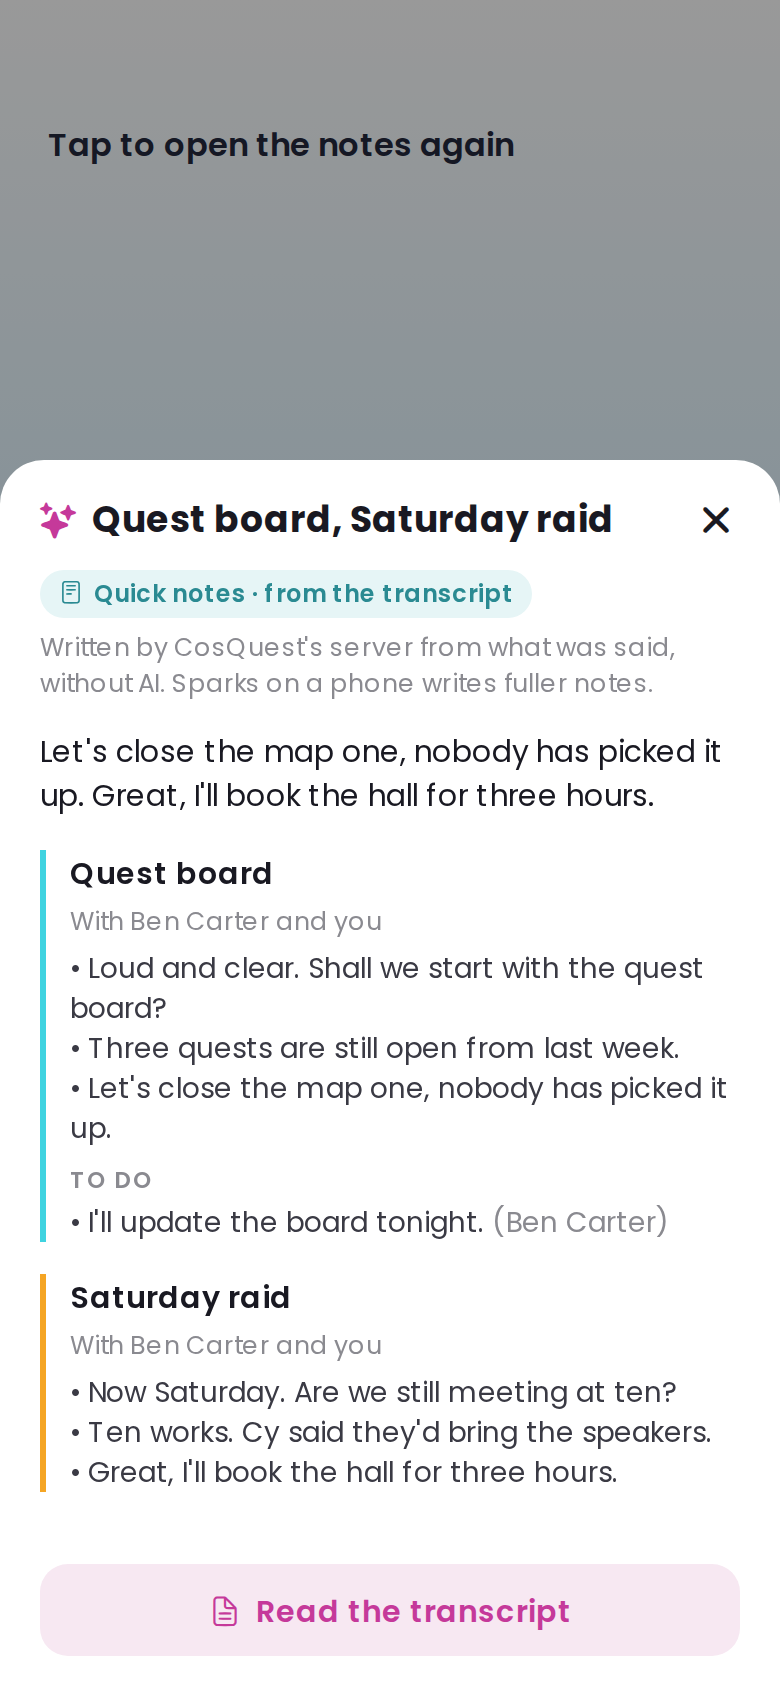
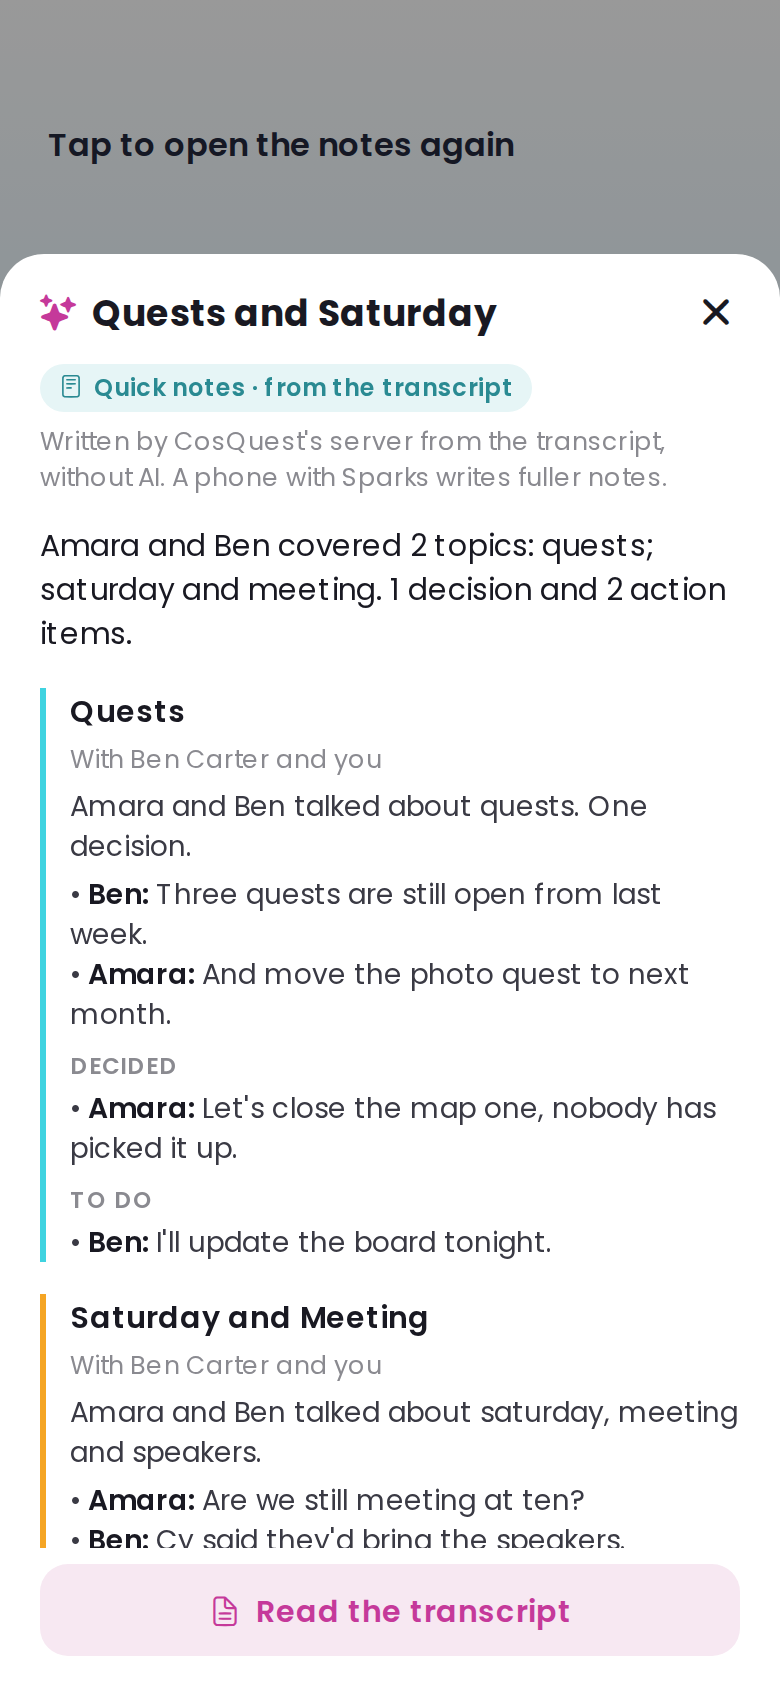
Quick notes: real server output in the preview, speaker names as labels
The dev preview's quick notes are now the server module's actual output
for the same lines. In quick notes, a quoted point, decision or to-do
shows its speaker's first name as a bold label; a to-do said by its owner
is labelled with the owner. Shorter, accurate explanation line.
Screenshots updated.

diff --git a/components/calls/CallNotesSheet.tsx b/components/calls/CallNotesSheet.tsx
@@ -36,6 +36,14 @@ export const callNotesEnabled = ["module", "qlm"].includes(String(process.env.EX
 
 const PENDING_POLL_MS = 15_000;
 
+// Quick notes quote people: "Ben: Three quests are still open." The name is
+// shown as a label, the sentence as said.
+const SAID = /^([^:\n]{1,40}):\s+([\s\S]+)$/;
+function splitSaid(text: string, quick: boolean): { who: string | null; text: string } {
+  const match = quick ? SAID.exec(text) : null;
+  return match ? { who: match[1].trim(), text: match[2] } : { who: null, text };
+}
+
 type Loaded =
   | { state: "loading" }
   | { state: "ready"; outline: CallOutline; speakers: TranscriptSpeakers }
@@ -196,7 +204,7 @@ export default function CallNotesSheet({
                     <Text style={styles.quickBadgeText}>Quick notes · from the transcript</Text>
                   </View>
                   <Text style={styles.quickText}>
-                    {"Written by CosQuest's server from what was said, without AI. Sparks on a phone writes fuller notes."}
+                    {"Written by CosQuest's server from the transcript, without AI. A phone with Sparks writes fuller notes."}
                   </Text>
                 </View>
               ) : null}
@@ -209,24 +217,43 @@ export default function CallNotesSheet({
                     <Text style={styles.topicTitle}>{topic.title}</Text>
                     {people ? <Text style={styles.people}>With {people}</Text> : null}
                     {topic.summary ? <Text style={styles.text}>{topic.summary}</Text> : null}
-                    {topic.points.map((point, i) => (
-                      <Text key={`p${i}`} style={styles.bullet}>
-                        • {point}
-                      </Text>
-                    ))}
+                    {topic.points.map((point, i) => {
+                      const said = splitSaid(point, quick);
+                      return (
+                        <Text key={`p${i}`} style={styles.bullet}>
+                          • {said.who ? <Text style={styles.said}>{said.who}: </Text> : null}
+                          {said.text}
+                        </Text>
+                      );
+                    })}
                     {topic.decisions.length ? <Text style={styles.label}>Decided</Text> : null}
-                    {topic.decisions.map((decision, i) => (
-                      <Text key={`d${i}`} style={styles.bullet}>
-                        • {decision}
-                      </Text>
-                    ))}
+                    {topic.decisions.map((decision, i) => {
+                      const said = splitSaid(decision, quick);
+                      return (
+                        <Text key={`d${i}`} style={styles.bullet}>
+                          • {said.who ? <Text style={styles.said}>{said.who}: </Text> : null}
+                          {said.text}
+                        </Text>
+                      );
+                    })}
                     {topic.actionItems.length ? <Text style={styles.label}>To do</Text> : null}
-                    {topic.actionItems.map((item, i) => (
-                      <Text key={`a${i}`} style={styles.bullet}>
-                        • {item.text}
-                        {item.ownerUserId ? <Text style={styles.owner}> ({nameFor(item.ownerUserId)})</Text> : null}
-                      </Text>
-                    ))}
+                    {topic.actionItems.map((item, i) => {
+                      const said = splitSaid(item.text, quick);
+                      const owner = item.ownerUserId ? nameFor(item.ownerUserId) : null;
+                      // Quick notes: a to-do with no name was said by its owner ("I'll update the board").
+                      // First name, like the quotes around it (the viewer too: the quotes name them).
+                      const id = item.ownerUserId;
+                      const ownerFull = id ? speakers[id]?.name || speakers[id]?.username || owner : null;
+                      const ownerLabel = ownerFull ? ownerFull.split(" ")[0].replace(/^./, (c) => c.toUpperCase()) : null;
+                      const who = said.who || (quick ? ownerLabel : null);
+                      return (
+                        <Text key={`a${i}`} style={styles.bullet}>
+                          • {who ? <Text style={styles.said}>{who}: </Text> : null}
+                          {said.text}
+                          {owner && !(quick && !said.who) ? <Text style={styles.owner}> ({owner})</Text> : null}
+                        </Text>
+                      );
+                    })}
                   </View>
                 );
               })}
@@ -274,6 +301,7 @@ const STYLE_PAIR = themedStyles(
     label: { fontFamily: FONTS.semibold, fontSize: 11.5, letterSpacing: 0.4, color: "#8A8A90", marginTop: 8, marginBottom: 2, textTransform: "uppercase" },
     bullet: { fontFamily: FONTS.regular, fontSize: 14, lineHeight: 20, color: "#3A3A44" },
     owner: { color: "#8A8A90" },
+    said: { fontFamily: FONTS.semibold, color: "#191922" },
     empty: { fontFamily: FONTS.regular, fontSize: 14, lineHeight: 20, color: "#6B6B72", marginVertical: 24 },
     setupLink: { fontFamily: FONTS.semibold, fontSize: 14, color: "#C5399A", marginTop: 14 },
     people: { fontFamily: FONTS.regular, fontSize: 12.5, color: "#8A8A90", marginBottom: 4 },
@@ -316,6 +344,7 @@ const STYLE_PAIR = themedStyles(
     label: { color: "#9AA1B4" },
     bullet: { color: "#D9DCE6" },
     owner: { color: "#9AA1B4" },
+    said: { color: "#F4F5FA" },
     empty: { color: "#B5BBCB" },
     people: { color: "#9AA1B4" },
     pendingTitle: { color: "#F4F5FA" },

diff --git a/app/dev/call-transcript.tsx b/app/dev/call-transcript.tsx
@@ -144,20 +144,77 @@ const OUTLINE: CallOutline = {
   generatedBy: { deviceIds: ["dev_1"], modelVersion: "mote-1.3" },
 };
 
+// Real server output for LINES, no live topics (regenerate: @cosquest/sparks-backend 1.3.3 extractiveSpans + extractiveReduce).
 const QUICK_OUTLINE: CallOutline = {
-  ...OUTLINE,
-  title: "Quest board, Saturday raid",
-  summary: "Let's close the map one, nobody has picked it up. Great, I'll book the hall for three hours.",
-  topics: OUTLINE.topics.map((t) => ({
-    ...t,
-    summary: "",
-    points: SEGMENTS.filter((s) => s.topicId === t.topicId)
-      .slice(0, 3)
-      .map((s) => s.text),
-    decisions: [],
-    actionItems: t.topicId === "tp_1" ? [{ text: "I'll update the board tonight.", ownerUserId: "u_ben" }] : [],
-  })),
+  callId: OUTLINE.callId,
+  chatId: OUTLINE.chatId,
+  startedAt: OUTLINE.startedAt,
+  endedAt: OUTLINE.endedAt,
+  segmentCount: OUTLINE.segmentCount,
+  generatedAt: OUTLINE.generatedAt,
   generatedBy: { deviceIds: [], modelVersion: "server-extractive" },
+  title: "Quests and Saturday",
+  summary: "Amara and Ben covered 2 topics: quests; saturday and meeting. 1 decision and 2 action items.",
+  topics: [
+    {
+      topicId: "ot_1",
+      title: "Quests",
+      colorIndex: 0,
+      order: 0,
+      summary: "Amara and Ben talked about quests. One decision.",
+      points: [
+        "Ben: Three quests are still open from last week.",
+        "Amara: And move the photo quest to next month."
+      ],
+      decisions: [
+        "Amara: Let's close the map one, nobody has picked it up."
+      ],
+      actionItems: [
+        {
+          text: "I'll update the board tonight.",
+          ownerUserId: "u_ben"
+        }
+      ],
+      spans: [
+        {
+          startMs: 2000,
+          endMs: 28500
+        }
+      ],
+      speakerIds: [
+        "u_amara",
+        "u_ben"
+      ]
+    },
+    {
+      topicId: "ot_2",
+      title: "Saturday and Meeting",
+      colorIndex: 1,
+      order: 1,
+      summary: "Amara and Ben talked about saturday, meeting and speakers.",
+      points: [
+        "Amara: Are we still meeting at ten?",
+        "Ben: Cy said they'd bring the speakers."
+      ],
+      decisions: [],
+      actionItems: [
+        {
+          text: "Great, I'll book the hall for three hours.",
+          ownerUserId: "u_amara"
+        }
+      ],
+      spans: [
+        {
+          startMs: 63000,
+          endMs: 149500
+        }
+      ],
+      speakerIds: [
+        "u_amara",
+        "u_ben"
+      ]
+    }
+  ],
 };
 
 const MOCK_CALL: Call = {
